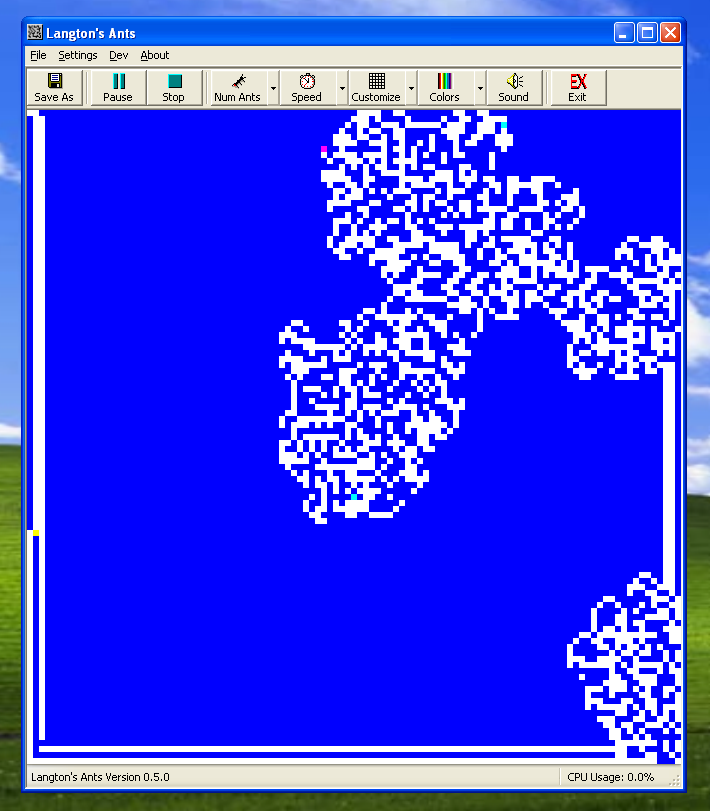
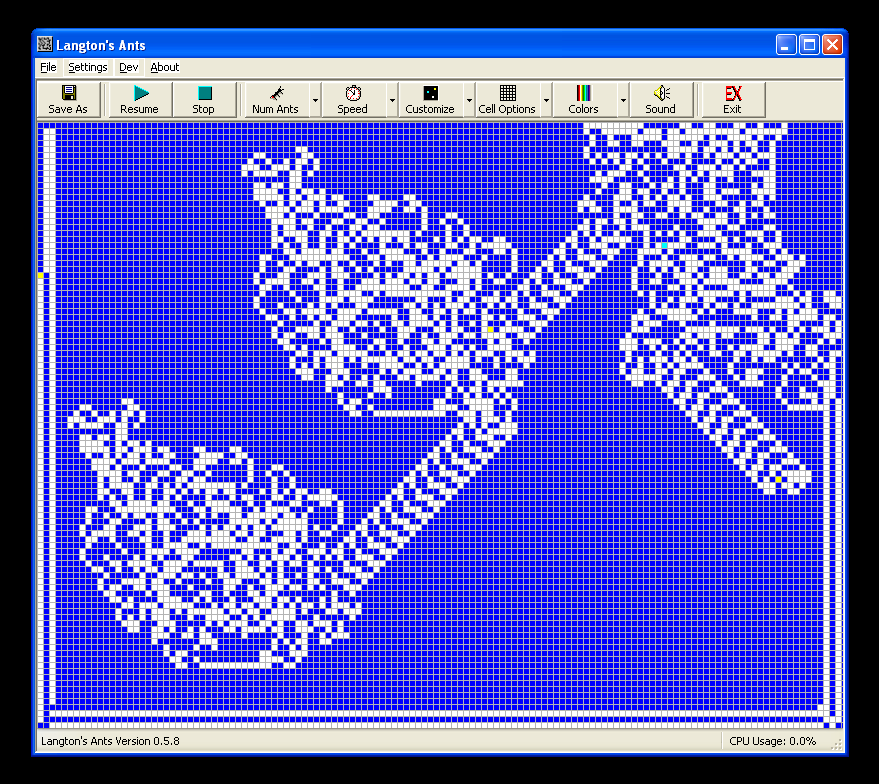
update screenshot

diff --git a/README.md b/README.md
@@ -1,7 +1,7 @@
 # Langton's Ants Win32 &nbsp;<img src="./assets/icon48.png" height="38">
 
 <p align="center">
-<img src="./assets/screenshot.png?raw=true" width="50%">
+<img src="https://raw.githubusercontent.com/Alex313031/langton_ants_win32/refs/heads/main/assets/screenshot.png" width="50%">
 </p>
 
 ## About
